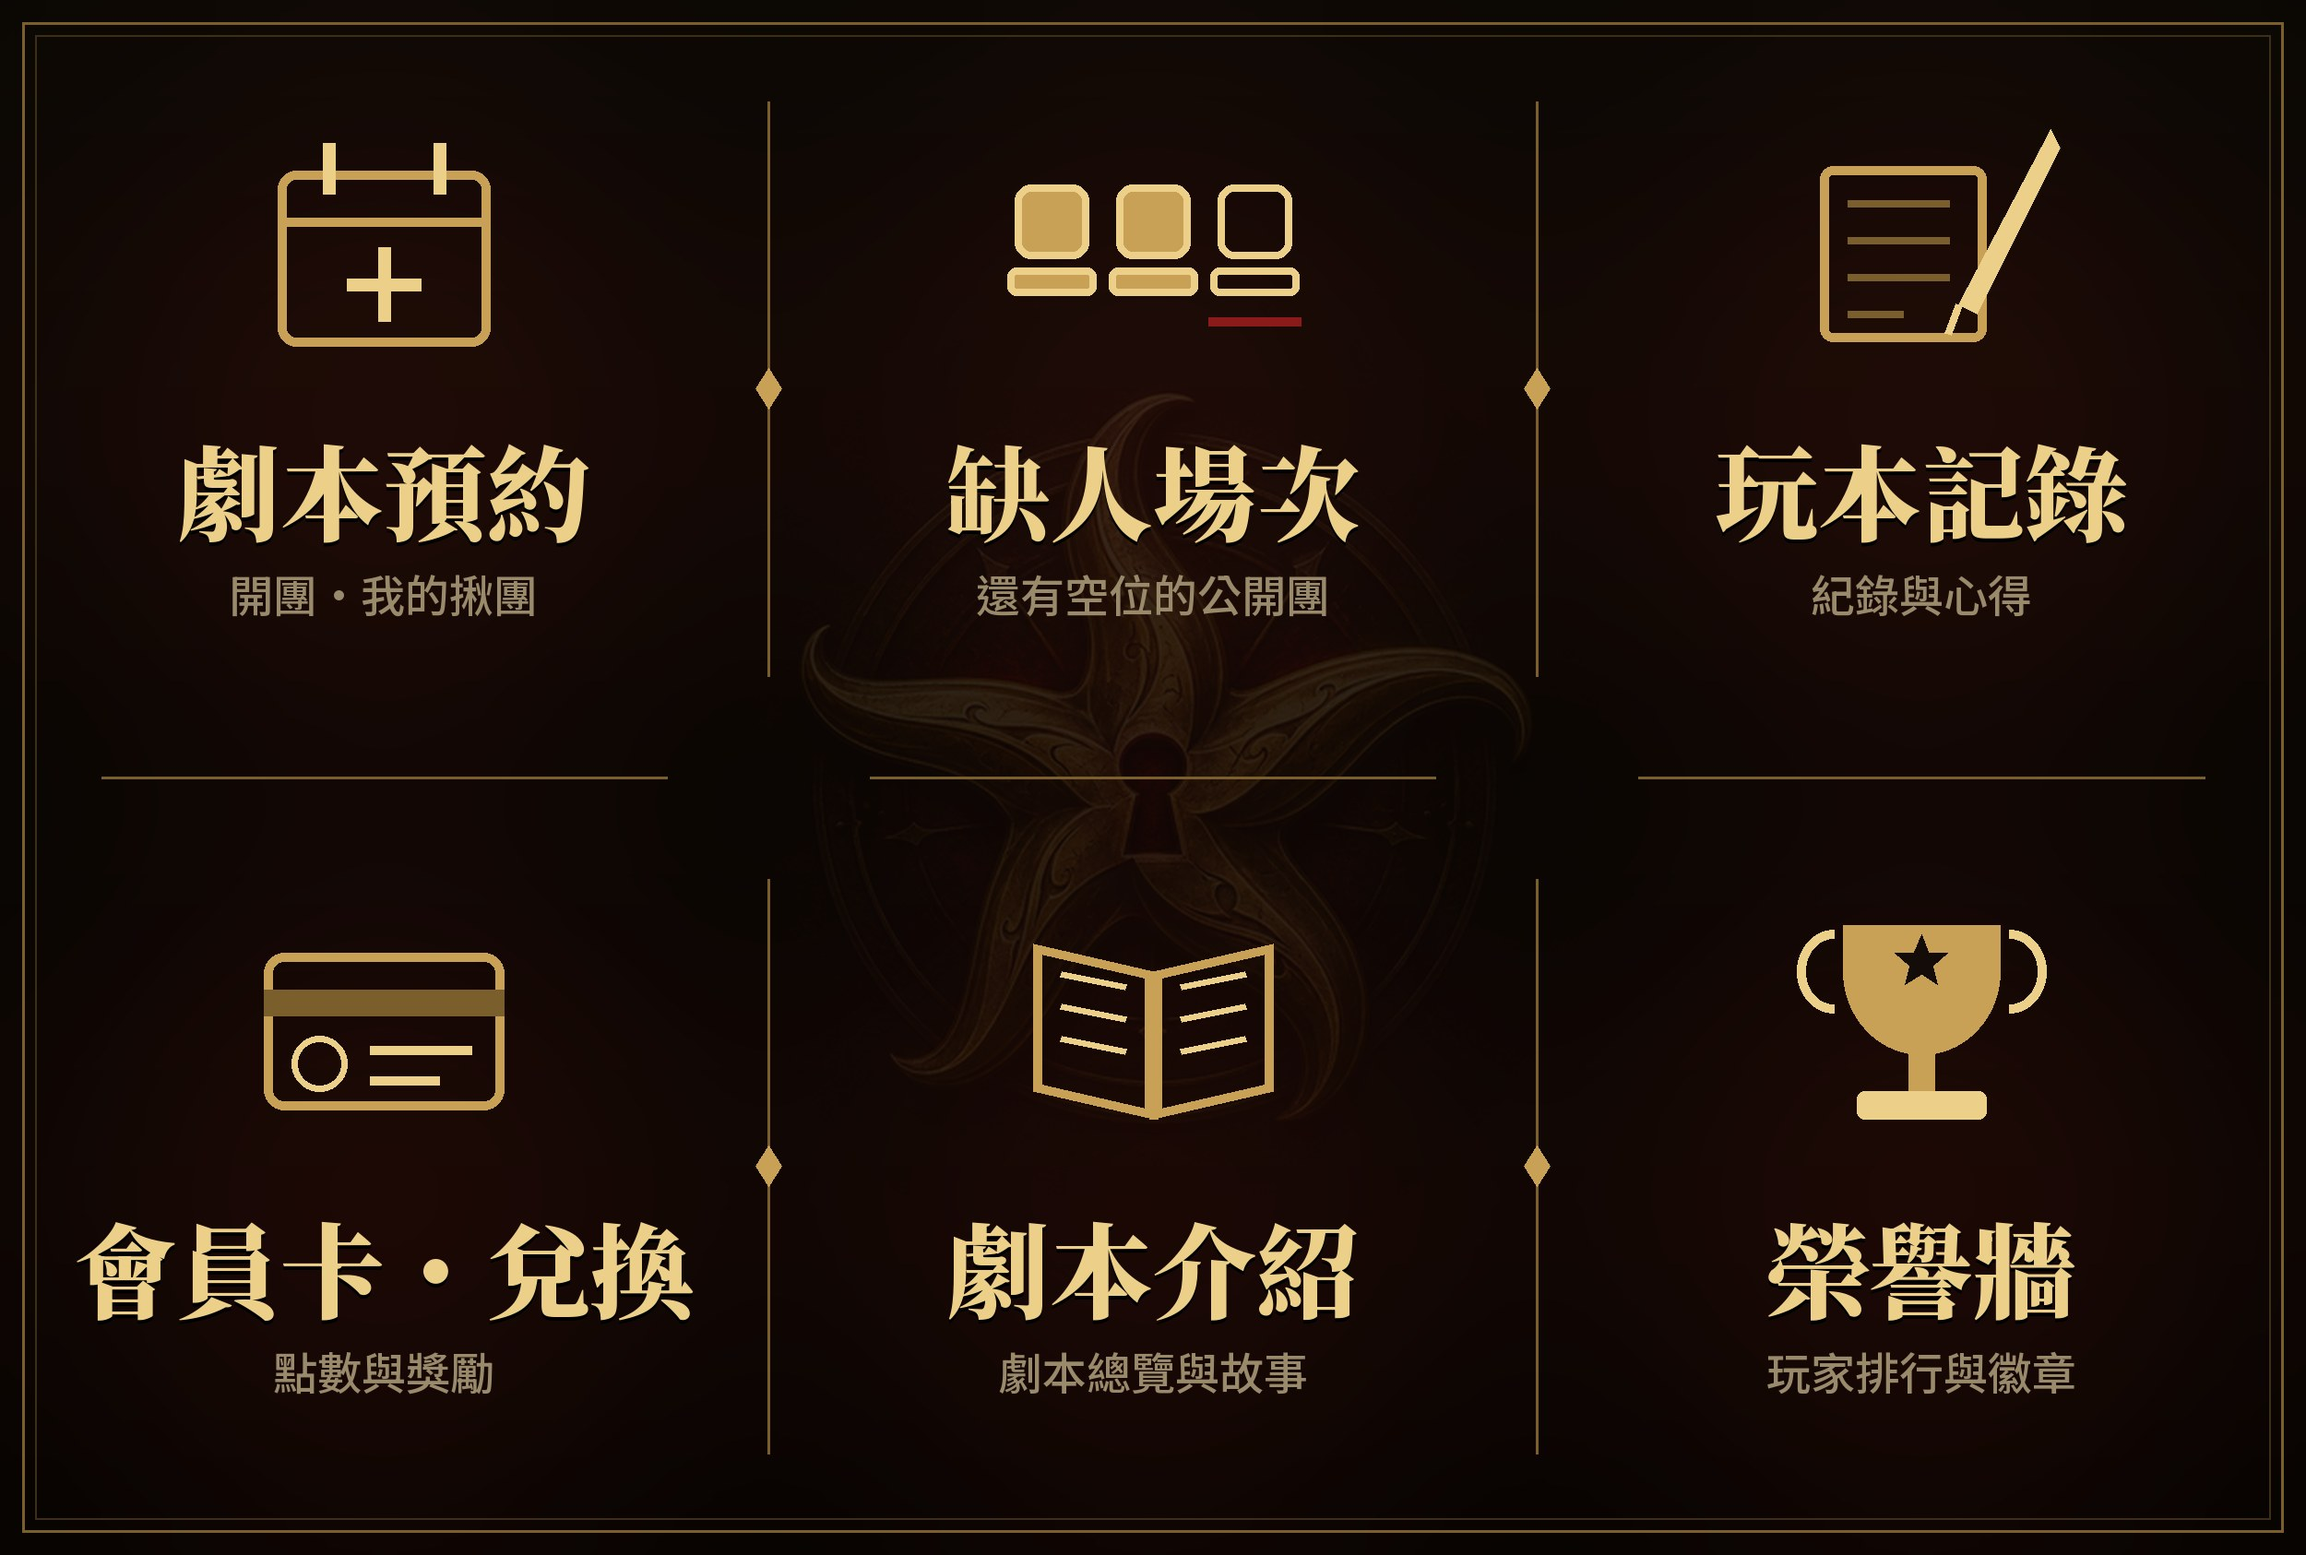
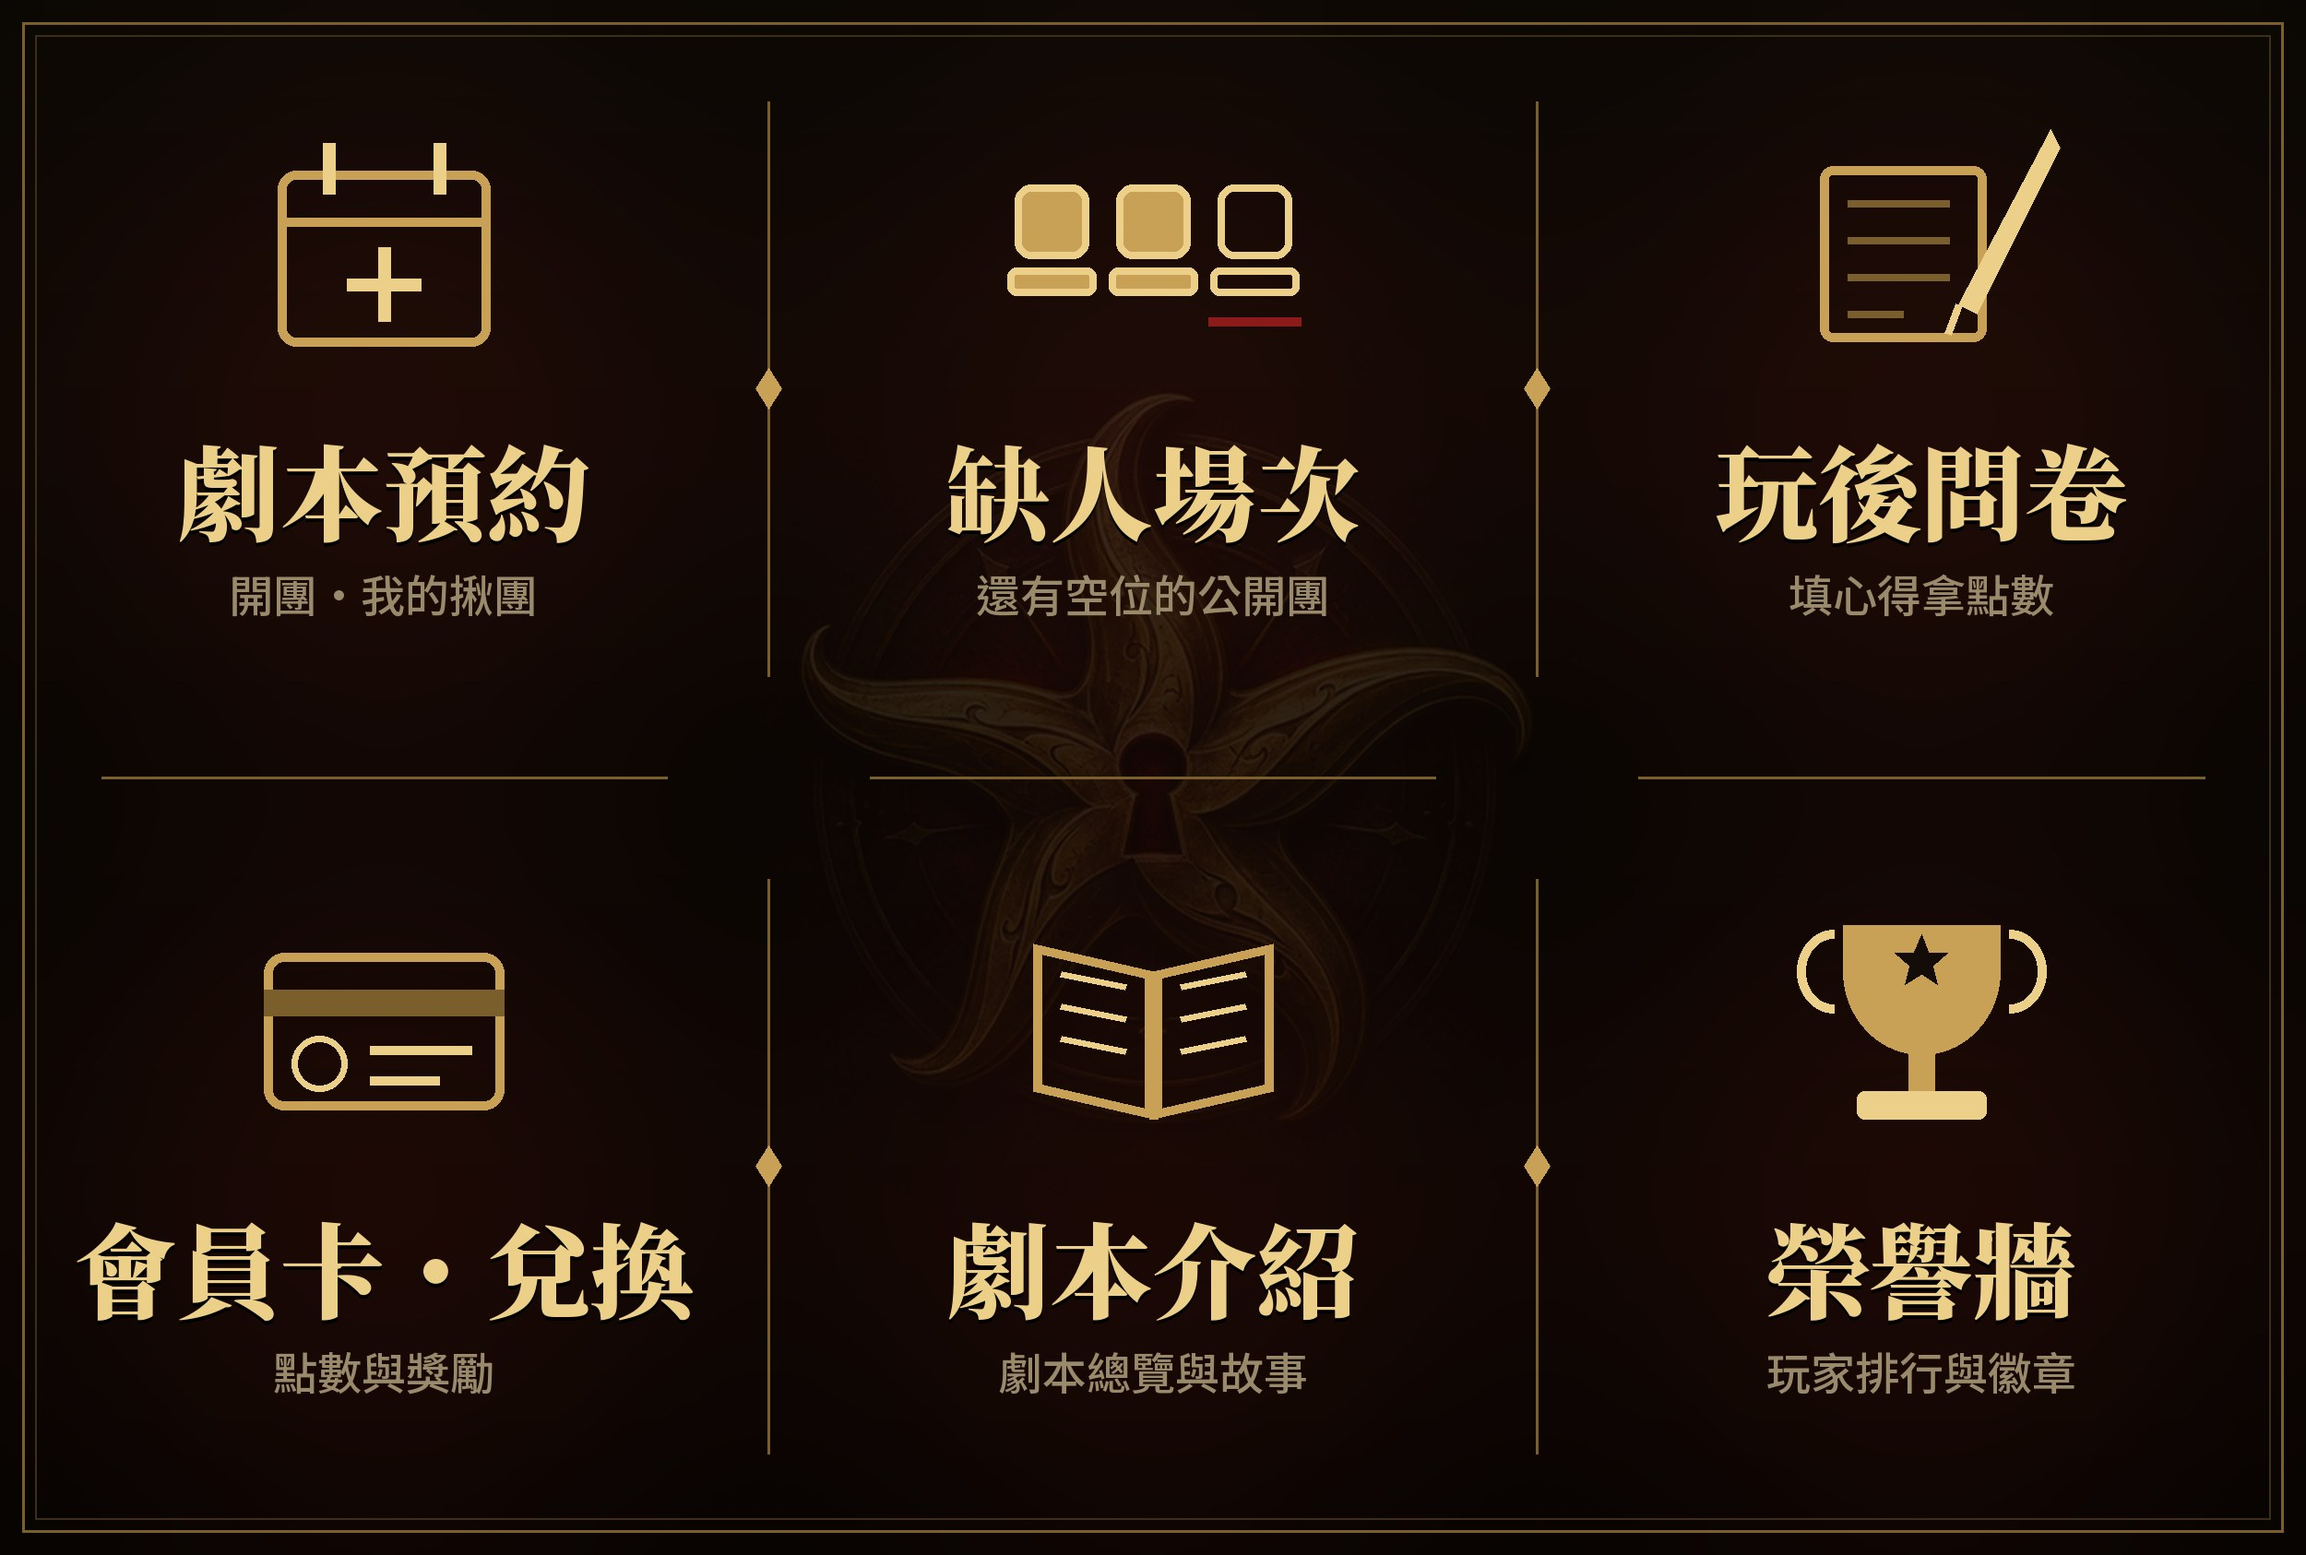
Point the member menu at the website 玩後問卷 and stop review reminders
The store hands out a QR code for the 玩後問卷 after each session, so
recording attendance no longer queues a LINE message (0028 drops the
trigger). The member Rich Menu's third cell becomes 玩後問卷 and opens the
website form directly.

Changed region(s): [[0.78, 0.2776, 0.936, 0.4009]]

diff --git a/supabase/functions/api/index.ts b/supabase/functions/api/index.ts
@@ -510,8 +510,6 @@ export function notificationText(p: Record<string, any>, liffId = DEFAULT_LIFF_I
       return `【揪團解散】${p.organizer_name} 解散了 ${when} 的揪團\n詳情：${link}`;
     case 'binding_requested':
       return `【老玩家綁定申請】${p.display_name || 'LINE 玩家'} 申請綁定玩本記錄名字「${p.record_name}」\n審核：https://liff.line.me/${liffId}?view=bindings`;
-    case 'review_reminder':
-      return `【填寫玩後問卷】${p.played_date}《${p.game_title}》已記錄出席，謝謝來玩！\n到網站填玩後問卷（選這天和這本劇本、用平常的名字），就能依集點規則拿點數：\n${PLAY_RECORD_FORM}`;
     case 'binding_approved':
       return `【綁定完成】你的 LINE 已綁定玩本記錄「${p.record_name}」。\n符合資格的老玩家會收到 ${RETURN_BONUS} 點回歸禮，打開會員卡就能看到。\n會員卡：https://liff.line.me/${liffId}?view=card`;
     case 'binding_rejected':
@@ -556,7 +554,6 @@ export async function deliverNotifications(settings: Settings, limit = 20) {
 // it to add the one-time 回歸禮 when the store approves a binding.
 const PLAY_RECORD_URL = 'https://script.google.com/macros/s/AKfycbz2jFZhU9tSm-WvZaC_lLSovG2zy3Up2-HNlK6sO6xyfnFDQu8DxRUIKmhDBg1AHMDsDg/exec';
 const RETURN_BONUS = 50;
-const PLAY_RECORD_FORM = 'https://cj2vum4.github.io/starfishlarp/%E6%96%B0%E5%A2%9E%E7%8E%A9%E6%9C%AC%E8%A8%98%E9%8C%84.html';  // 新增玩本記錄.html
 type RecordSummary = { name: string; agent: string; earned: number; redeemed: number; balance: number; plays: number;
   last: string; title?: string };
 type Reward = { track: string; name: string; cost: number; note: string };
@@ -652,7 +649,7 @@ export function richMenuDefinition(kind: 'new' | 'member', liffId = DEFAULT_LIFF
   const liff = (view?: string) => `https://liff.line.me/${liffId}${view ? '?view=' + view : ''}`;
   const links = kind === 'new'
     ? [sitePage('主持人資訊.html'), SITE, liff(), liff('open'), liff('guide'), liff('veteran')]
-    : [liff(), liff('open'), liff('history'), liff('card'), SITE, sitePage('榮譽牆.html')];
+    : [liff(), liff('open'), sitePage('新增玩本記錄.html'), liff('card'), SITE, sitePage('榮譽牆.html')];  // 玩後問卷: the website form
   const widths = [833, 834, 833];
   return {
     size: { width: 2500, height: 1686 }, selected: true,

diff --git a/scripts/richmenu_image.py b/scripts/richmenu_image.py
@@ -83,7 +83,7 @@ def icon_medal(d, cx, cy):  # 我是老玩家: medal with a star
     star(d, cx, cy + 40, 52, GOLD_L)
 
 
-def icon_quill(d, cx, cy):  # 玩本記錄: scroll and quill
+def icon_quill(d, cx, cy):  # 玩後問卷: scroll and quill
     d.rounded_rectangle([cx - 110, cy - 90, cx + 70, cy + 100], radius=14, outline=GOLD, width=10)
     for k in range(4):
         d.line([cx - 80, cy - 50 + k * 40, cx + 30 - (k == 3) * 50, cy - 50 + k * 40], fill=GOLD_D, width=8)
@@ -124,7 +124,7 @@ MENUS = {
             (icon_calendar, '劇本預約', '開團・我的揪團'), (icon_seats, '缺人場次', '還有空位的公開團'),
             (icon_compass, '新手指南', '第一次怎麼玩'), (icon_medal, '我是老玩家', '綁定以前的紀錄')],
     'member': [(icon_calendar, '劇本預約', '開團・我的揪團'), (icon_seats, '缺人場次', '還有空位的公開團'),
-               (icon_quill, '玩本記錄', '紀錄與心得'), (icon_card, '會員卡・兌換', '點數與獎勵'),
+               (icon_quill, '玩後問卷', '填心得拿點數'), (icon_card, '會員卡・兌換', '點數與獎勵'),
                (icon_book, '劇本介紹', '劇本總覽與故事'), (icon_trophy, '榮譽牆', '玩家排行與徽章')],
 }
 

diff --git a/docs/HANDOFF.md b/docs/HANDOFF.md
@@ -112,9 +112,9 @@
 2. **過期揪團處理**（店家尚未決定）：開場時間到仍未成團 → 自動結束招募＋通知主揪？開場前一天提醒「還缺 N 人」？兩者都做？**先問店家再做**。
 3. **玩本心得一律走網站玩後問卷（2026-10-06 店家定案）**：曾在 LINE 做過心得表單與補登（0025／0026），
    店家判定與網站問卷重疊、又沒有各劇本的角色選單，已由 0027 移除，**不要再在 LINE 做填寫或補登**。
-   - 保留：店家記錄出席後，LINE 推播「填寫玩後問卷」，訊息寫明日期與劇本並連到網站 `新增玩本記錄.html`（網站問卷不支援網址預填）。
-   - 保留：試算表「設定」`LINE上線日`＝2026/10/06（店家決定保留）。遊玩日在此日前、此日後才填的紀錄（含網站問卷）只記錄 0 點，不佔首探／新手好運／介紹人／互動點數。
-   - 保留：`line_record_accounts`（已有 1 筆由舊流程建立的歸戶名，會員卡會讀）；Apps Script 的 `line_record` 動作已無人呼叫，下次店家更新 Apps Script 時可一併移除。
+   - 店家劇本結束後現場給玩後問卷 QR code；LINE **不發**玩後通知（0028 移除出席觸發的提醒）。老玩家圖文選單第 3 格「玩後問卷」直接開網站 `新增玩本記錄.html`。
+   - 補登規則：試算表「設定」`LINE上線日`＝2026/10/06、`補登寬限天數`＝7（未列出時預設 7）。上線日後送出、且送出日比遊玩日晚超過 7 個日曆天 → 只記錄 0 點，不佔首探／新手好運／介紹人／互動點數；上線日前的紀錄不受影響。
+   - 保留：`line_record_accounts`（已有 1 筆由舊流程建立的歸戶名，會員卡會讀）。Apps Script 已移除 `line_record`；試算表的「LINE身分」分頁是舊流程留下的，可保留或刪除。
    - 會員卡：有存檔副本就先顯示並標「點數更新中」，背景再讀 Apps Script（Apps Script 讀取實測 2–60 秒）。
 4. LIFF 加好友設定已完成：依 2026-10-05 聊天「Update aggressive channel option」紀錄，Add friend option 為 On (aggressive)，Linked OA 已儲存為 @825gdzws；不再列為待設定。
 5. P12 試營運：20–50 位真人、10 團、5 場成團；招募文案在 `docs/PLAYER_GUIDE.md`（需補上老玩家綁定與會員卡的說明）。

diff --git a/docs/PROGRESS.md b/docs/PROGRESS.md
@@ -326,6 +326,13 @@
 - 保留：出席後的 LINE 提醒（改為連到網站問卷）、LINE上線日＝2026/10/06（店家決定保留，網站問卷補填也適用）、會員卡先顯示存檔副本。
 - 移除前確認佇列 0 筆、review_reminder 通知 0 筆。
 
+## 玩後問卷改走現場 QR code＋老玩家選單、補登 7 天寬限（2026-10-06）
+
+- 店家：劇本結束後現場給 QR code，LINE 不需要玩後通知；要有圖文選單讓玩家隨時填。
+  0028 移除 review_reminder 觸發器；老玩家選單第 3 格「玩本記錄」改為「玩後問卷・填心得拿點數」，直接開網站問卷（新玩家選單不變）。
+- 補登規則改為：LINE上線日後送出、送出日比遊玩日晚超過「補登寬限天數」（預設 7 個日曆天）才只記錄不給點。
+  starfishlarp 一併移除 line_record；tests/run.sh 169 passed。npm test 91 passed。
+
 ## 尚待實測
 
 - P3：外部瀏覽器登入、session 過期自動重新登入。
